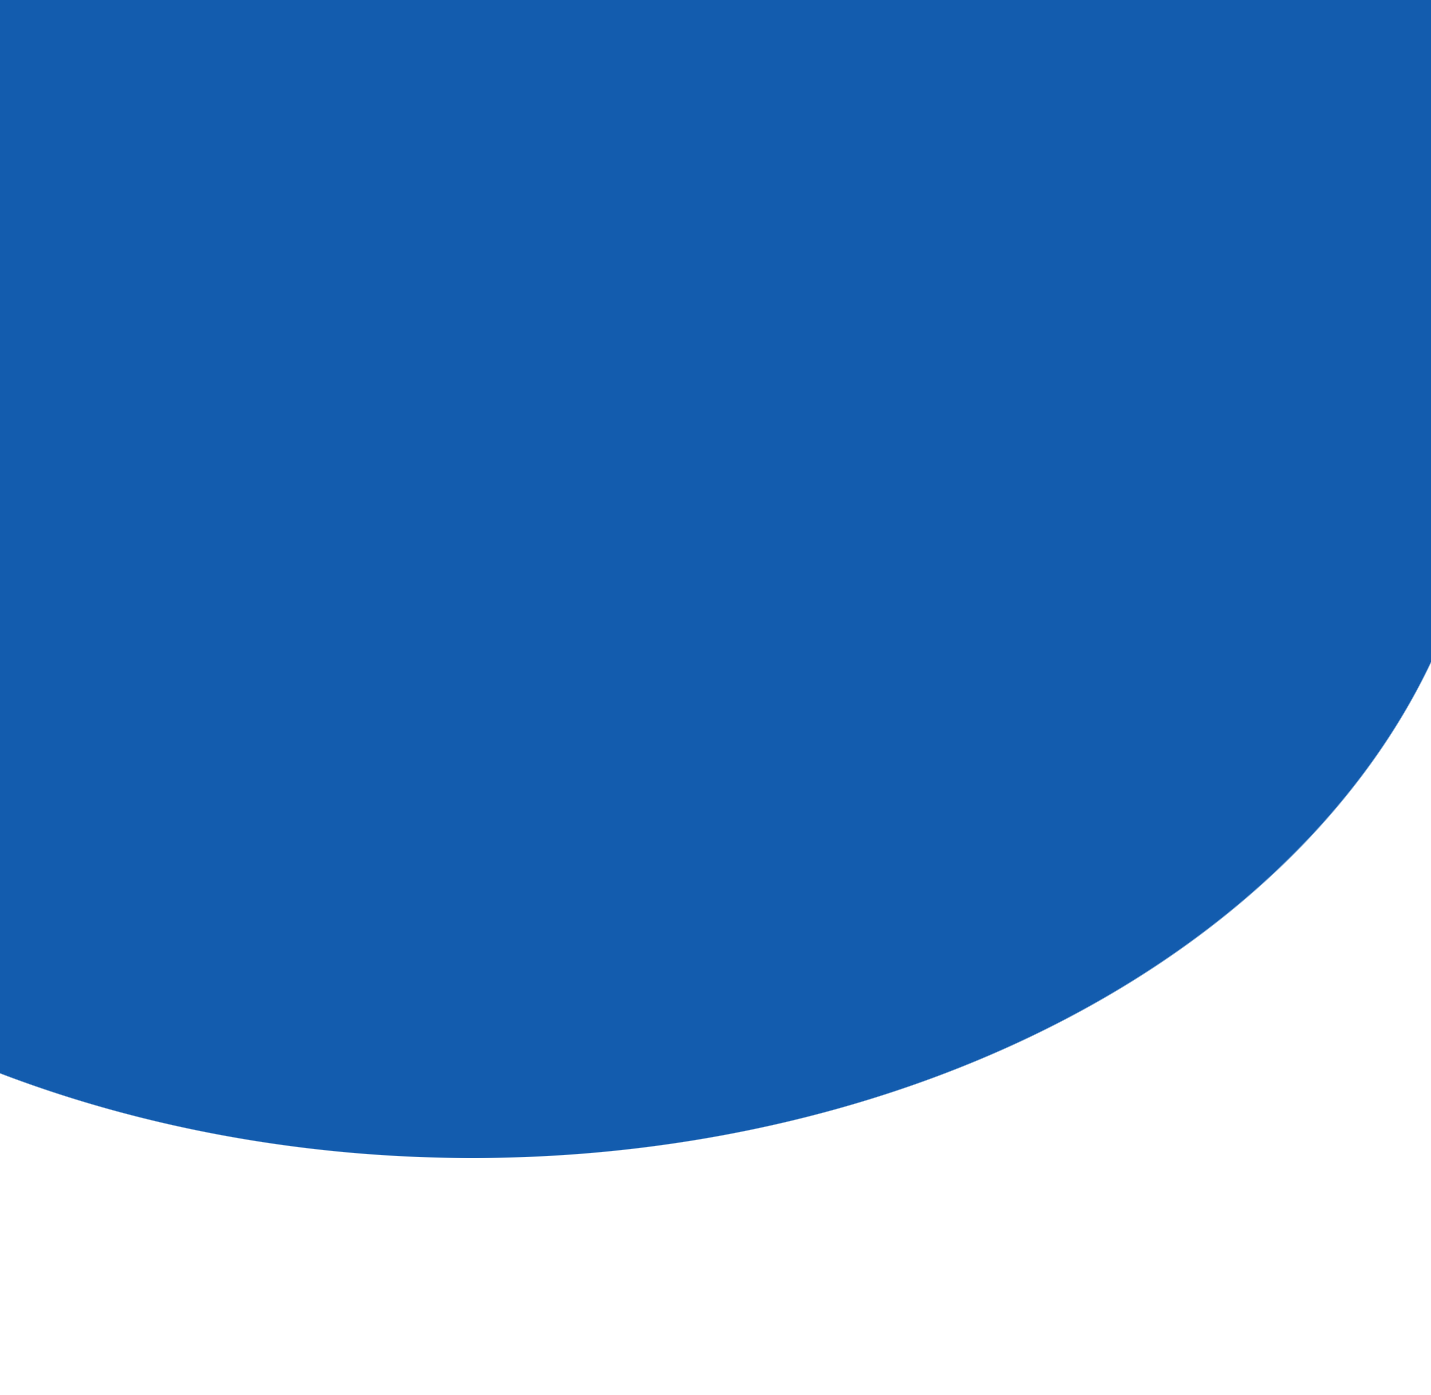
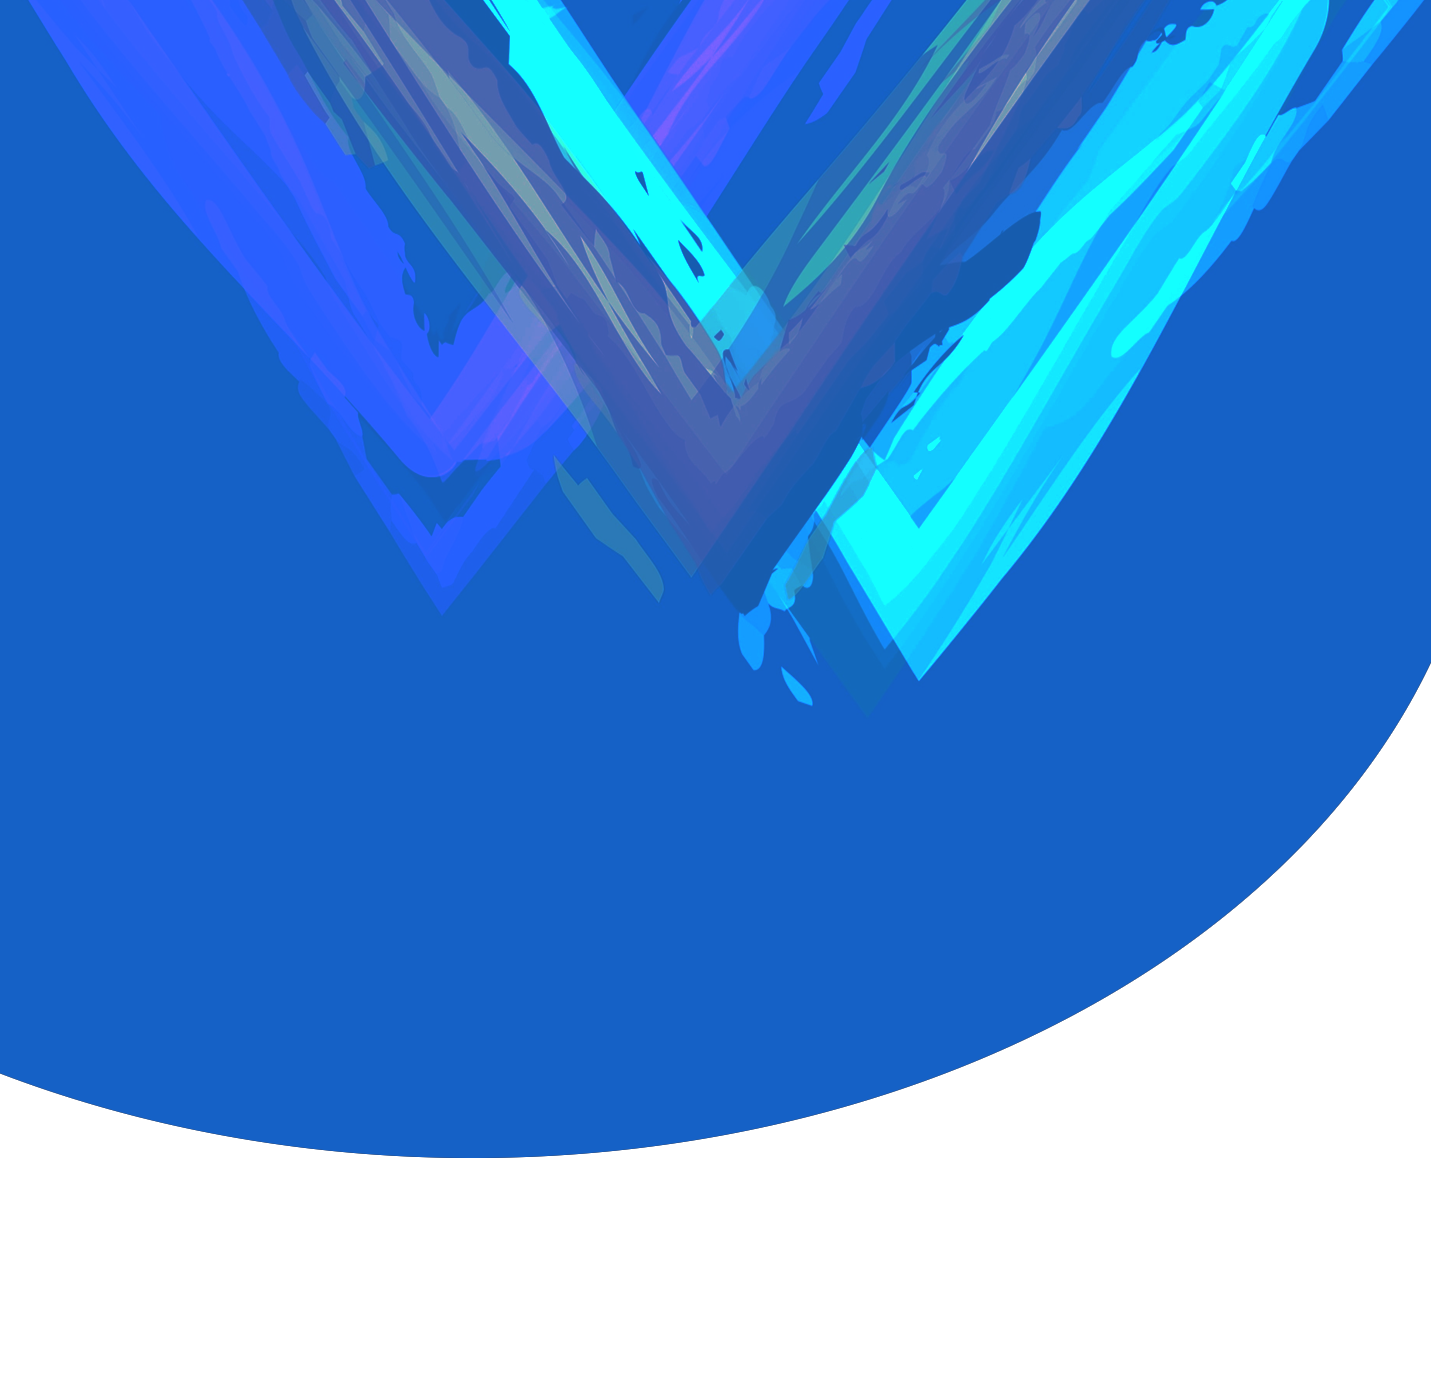
New update in background and photo

Changed region(s): [[0.0, 0.0, 1.0, 0.524]]

diff --git a/wp-content/themes/ErmirShabani/assets/styles/style.css b/wp-content/themes/ErmirShabani/assets/styles/style.css
@@ -252,20 +252,15 @@ body {
   width: 650px;
   height: 650px;
   object-fit: cover;
-  border: 5px solid #f0f0f0;
-  background-color: #f0f0f0;
-  border-radius: 100%;
 }
 .fotoFlyer img:hover {
   transform: scale(1.2) rotate(360deg);
   transition: 1s;
-  
-
 }
 .container.containeri2 {
   background-color: #f0f0f0;
   background-image: url("../Images/svgbg2.png");
-  background-size: 100% 80%;
+  background-size: 100% 50%;
   background-repeat: no-repeat;
 }
 .container.containeri2 ul {
@@ -519,9 +514,7 @@ body {
     width: 100%;
     height: auto;
     object-fit: cover;
-    border: 5px solid #e9e7e7;
-    background-color: #e9e7e7;
-    border-radius: 100%;
+   
   }
   .container.containeri2 {
     background-color: #e9e7e7;
@@ -682,9 +675,6 @@ body {
     width: 50%;
     height: auto;
     object-fit: cover;
-    border: 5px solid #f0f0f0;
-    background-color: #f0f0f0;
-    border-radius: 100%;
     margin-left: auto;
     margin-right: auto;
     display: block;
@@ -842,13 +832,11 @@ body {
     width: 100%;
     height: auto;
     object-fit: cover;
-    border: 0px;
     margin-top: 50px;
     margin-left: auto;
     margin-right: auto;
     display: block;
-    border: 2px solid #f0f0f0;
-    border-radius: 100%;
+  
   }
   .container.containeri2 h2 {
     font-size: 20px;

diff --git a/wp-content/themes/ErmirShabani/templates/abiturflyer.php b/wp-content/themes/ErmirShabani/templates/abiturflyer.php
@@ -129,7 +129,7 @@ Template Name: Abiturflyer
 
             <!-- KOLONA ME FOTON E CILA ZE TE GJITHE HAPESIREN E SAJ TE KOLONES -->
             <div class="col col-12 orangePhoto">
-                <img src="<?php the_field('orangephoto') ?>" data-aos="slide-up">
+                <img src="<?php the_field('orangephoto') ?>">
             </div>
 
             <div class="col col-lg-6 col-12 karta1col">
@@ -206,6 +206,8 @@ Template Name: Abiturflyer
     </div>
     <!-- MBARIMI I DIVIT KRYESOR DHE TE BACKGROUNDIT TE JASHTEM -->
 
+
+     <!-- PERDORIMI I LIBRARIS AOS -->
     <script src="https://unpkg.com/aos@next/dist/aos.js"></script>
   <script>
     AOS.init({
@@ -220,5 +222,7 @@ Template Name: Abiturflyer
   
 });
   </script>
+
+  <!-- MBARIMI I LIBRARIS -->
 
     <?php get_footer();?>
